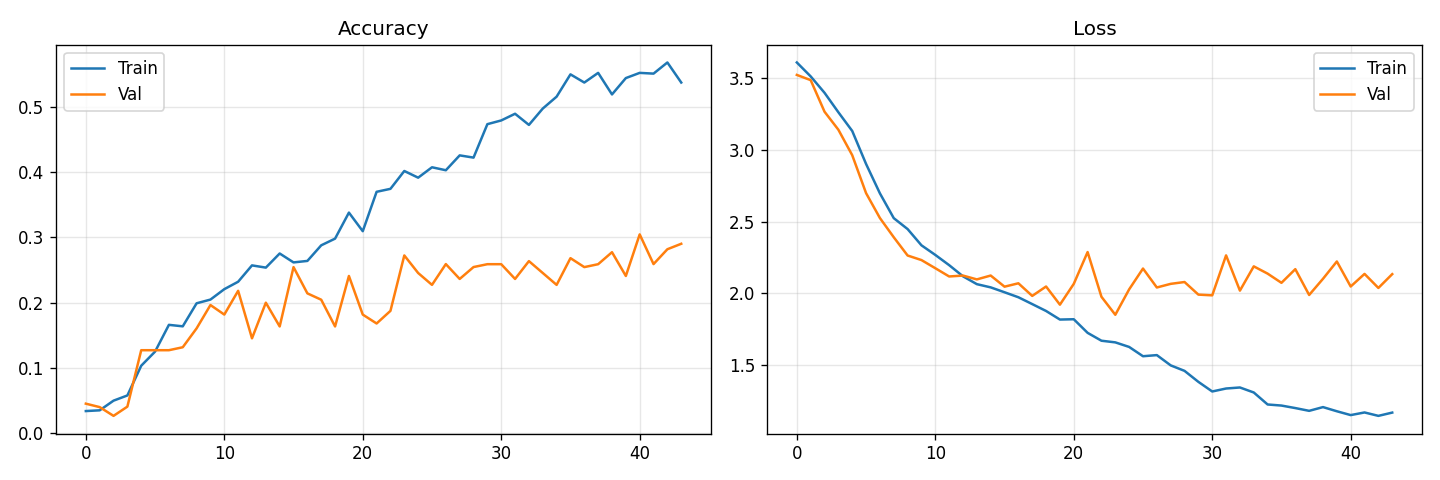
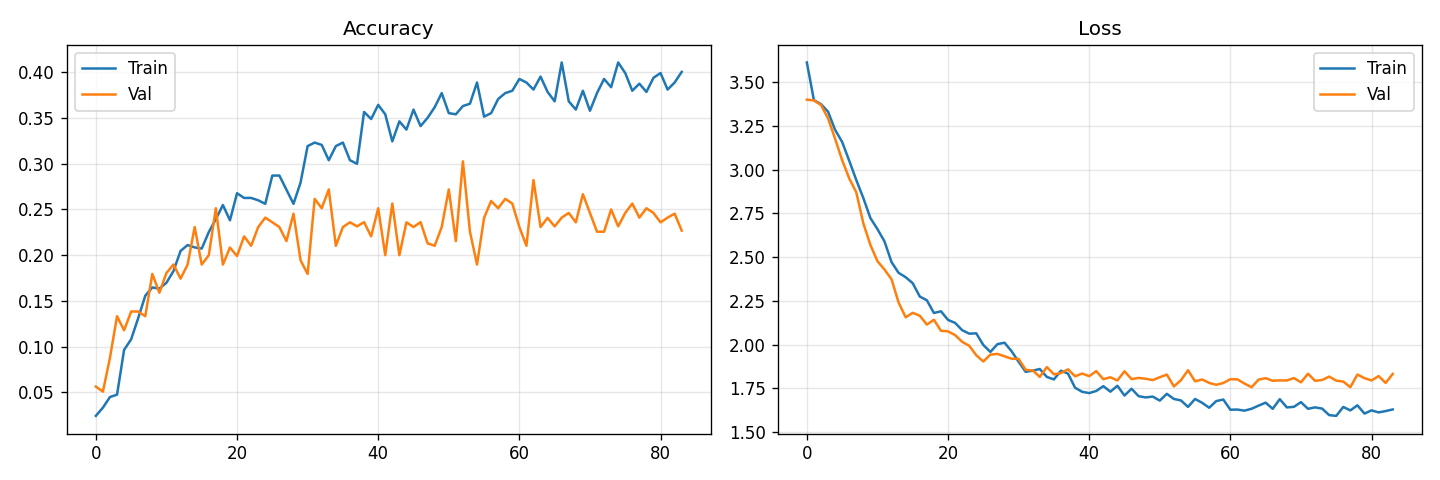
game good

diff --git a/uno_train.py b/uno_train.py
@@ -52,17 +52,24 @@ def augment_batch(X_batch):
     aug = []
     for img in X_batch:
         h, w = img.shape[:2]
-        # brightness
-        img = np.clip(img + np.random.uniform(-0.3, 0.3), 0, 1)
-        # rotation + scale
-        angle = np.random.uniform(-30, 30)
-        scale = np.random.uniform(0.8, 1.2)
 
+        # Gentle brightness + contrast
+        brightness = np.random.uniform(-0.15, 0.15)
+        contrast   = np.random.uniform(0.85, 1.15)
+        img = np.clip(img * contrast + brightness, 0, 1)
+
+        # Small rotation only (cards are held fairly straight)
+        angle = np.random.uniform(-8, 8)
+        scale = np.random.uniform(0.9, 1.1)
         M = cv2.getRotationMatrix2D((w / 2, h / 2), angle, scale)
         img = cv2.warpAffine(img, M, (w, h))
-        # horizontal flip
-        if np.random.rand() < 0.5:
-            img = cv2.flip(img, 1)
+
+        # Small translation
+        tx = np.random.uniform(-0.05 * w, 0.05 * w)
+        ty = np.random.uniform(-0.05 * h, 0.05 * h)
+        T = np.float32([[1, 0, tx], [0, 1, ty]])
+        img = cv2.warpAffine(img, T, (w, h))
+
         aug.append(img)
     return np.array(aug, dtype=np.float32)
 

diff --git a/uno_model.py b/uno_model.py
@@ -5,21 +5,17 @@ def build_model(num_classes, img_size):
 
     model = models.Sequential([
         layers.Conv2D(32, (3, 3), padding="same", activation="relu", input_shape=(h, w, 3)),
-        layers.BatchNormalization(),
         layers.MaxPooling2D(),
-
+        layers.Dropout(0.3),
         layers.Conv2D(64, (3, 3), padding="same", activation="relu"),
-        layers.BatchNormalization(),
         layers.MaxPooling2D(),
-
+        layers.Dropout(0.3),
         layers.Conv2D(128, (3, 3), padding="same", activation="relu"),
-        layers.BatchNormalization(),
         layers.MaxPooling2D(),
-
-        layers.GlobalAveragePooling2D(),
-
-        layers.Dense(128, activation="relu"),
         layers.Dropout(0.4),
+        layers.Flatten(),
+        layers.Dense(256, activation="relu"),
+        layers.Dropout(0.5),
         layers.Dense(num_classes, activation="softmax")
     ])
     return model

diff --git a/play_irl.py b/play_irl.py
@@ -8,16 +8,13 @@ from pathlib import Path
 gameplay_model = load_model('my_uno_model.h5')
 
 # load card recognition model
-rec_model = load_model('C:/Users/sanch/PycharmProjects/FinalAI.Uno/my_uno_model.h5')
-with open('C:/Users/sanch/PycharmProjects/FinalAI.Uno/uno_labels.txt') as f:
+rec_model = load_model('C:/Users/ebben/PycharmProjects/FinalAI.Uno/uno_model.keras')
+with open('C:/Users/ebben/PycharmProjects/FinalAI.Uno/uno_labels.txt') as f:
     labels = [line.strip() for line in f if line.strip()]
 
 import uno_config as cfg
 
 env = UnoEnvironment(player_count=2) #cannot play w/ more w/ current rules
-
-for i, card in enumerate(UnoEnvironment.CARD_TYPES):
-    print(f"Index {i}: {card}")
 
 COLOURS = ['Red', 'Green', 'Blue', 'Yellow']
 TYPES = ['0', '1', '2', '3', '4', '5', '6', '7', '8', '9', 'Reverse', 'Draw2', 'Skip', 'Wild', 'Wild4']

diff --git a/uno_config.py b/uno_config.py
@@ -6,13 +6,13 @@ MODEL_PATH = "uno_model.keras"  # saved after training
 LABELS_PATH = "uno_labels.txt"  # one label per line, written by uno_train.py
 
 # IMG SETTINGS
-IMG_SIZE = (160, 160)   # (height, width) -- must match uno_model.py default
+IMG_SIZE = (164, 164)   # (height, width) -- must match uno_model.py default
 
 # HYPERPARAMETERS
 EPOCHS = 100
-BATCH_SIZE = 32
+BATCH_SIZE = 24
 VAL_SPLIT = 0.2
-LEARNING_RATE = 0.0001
+LEARNING_RATE = 0.0002
 
 # CAMERA SETTINGS
 CAMERA_ID = 2
